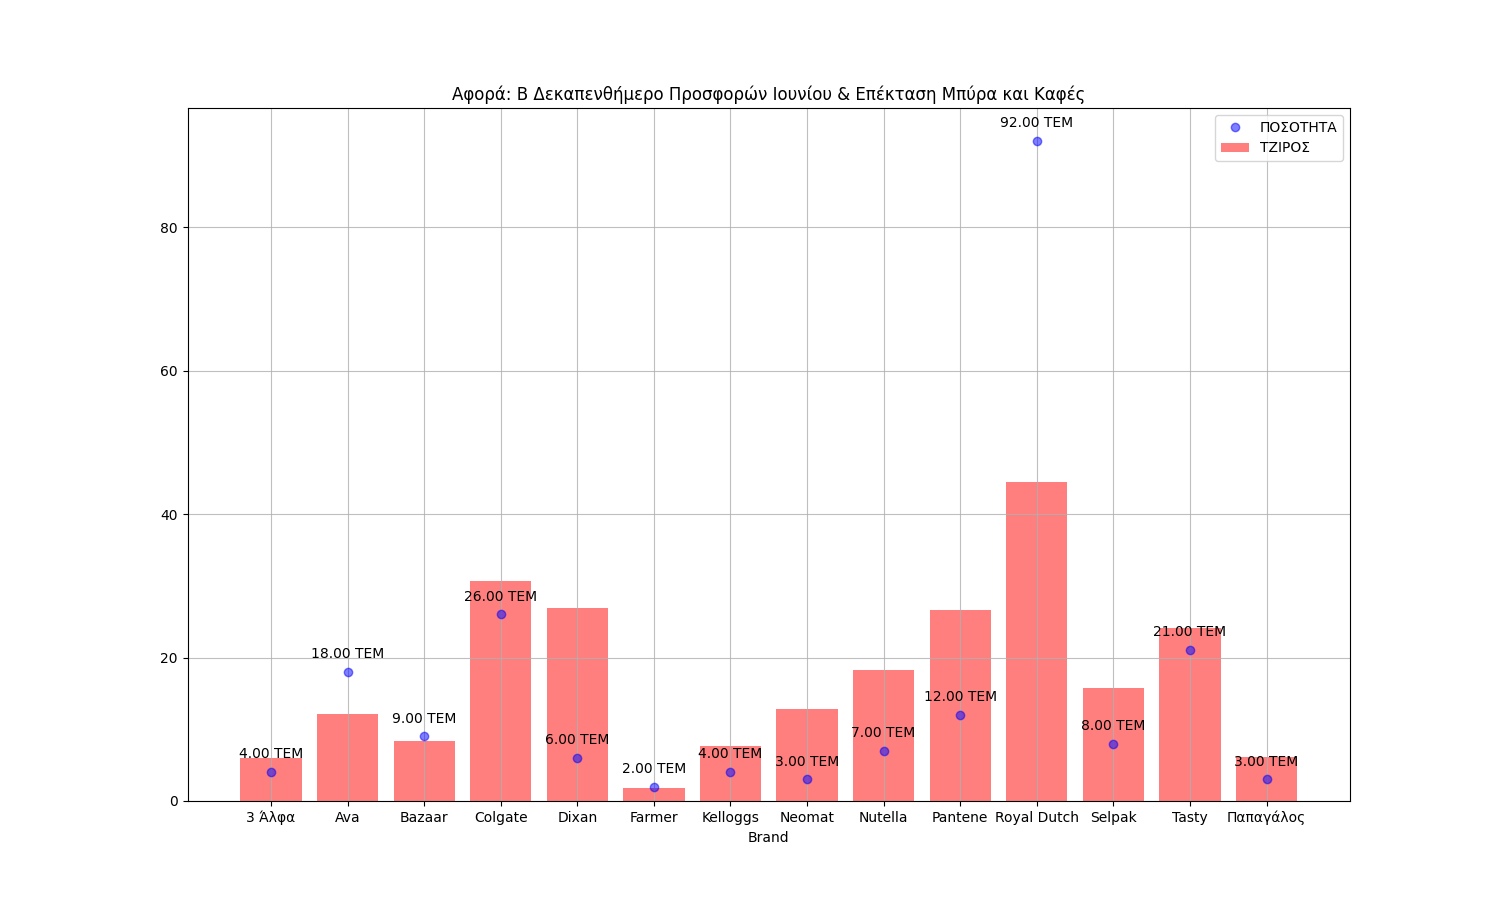
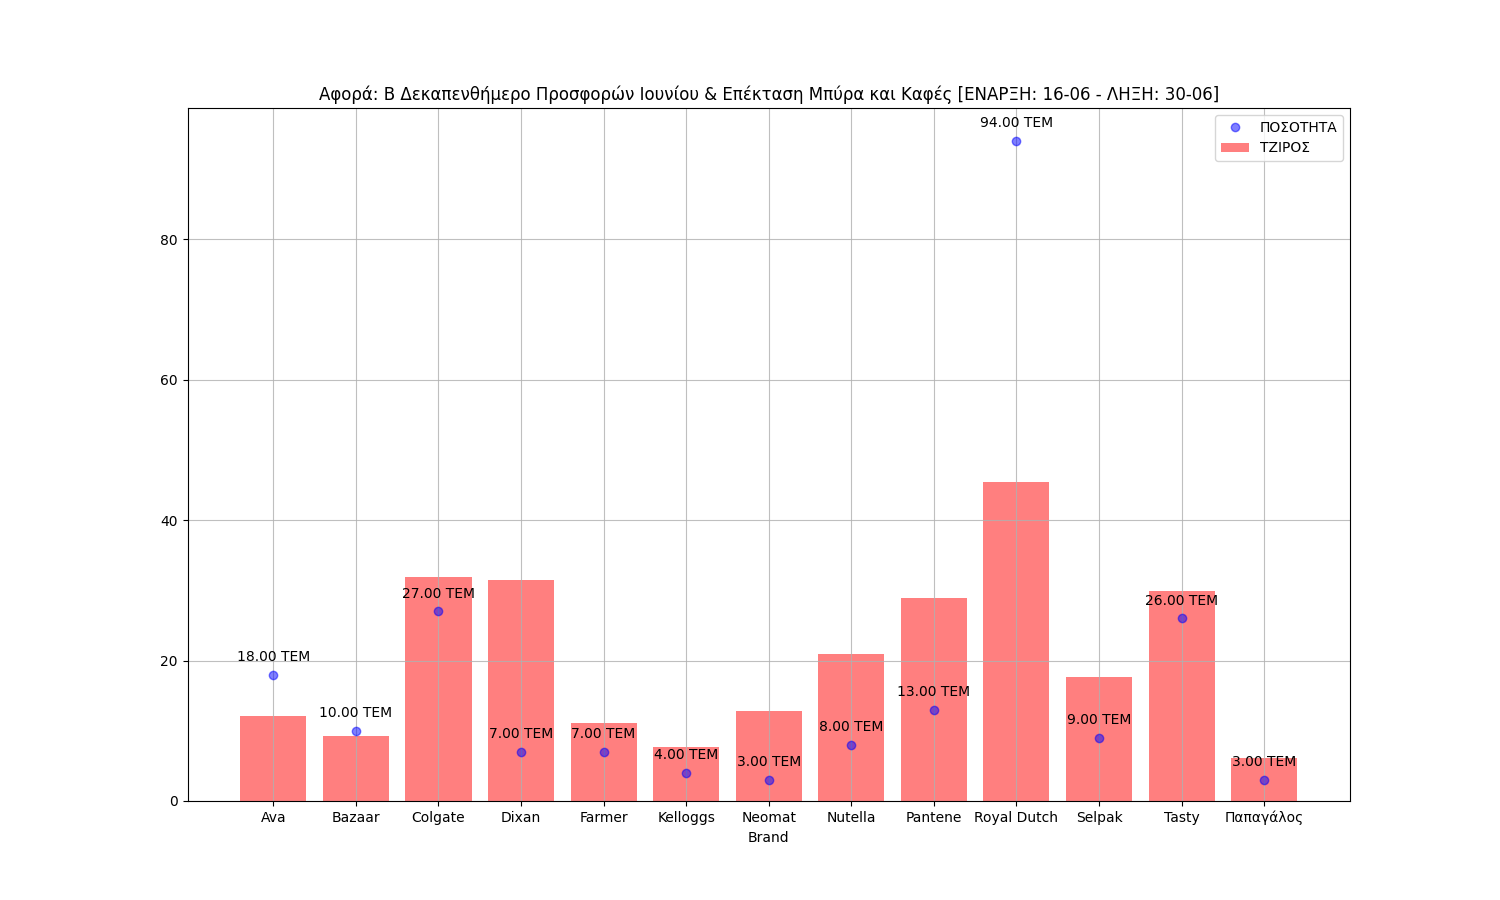
@Ioannis E. Kommas (PyCharm Commit and Push Code Lines)

diff --git a/ΝΕΑ_ΠΑΡΑΓΓΕΛΙΑ/app.py b/ΝΕΑ_ΠΑΡΑΓΓΕΛΙΑ/app.py
@@ -12,7 +12,7 @@ from Private import slack_app, send_mail, sql_connect
 
 # ----------------STATEMENTS HERE----------------------------
 # 797 ok
-input_param = '800'
+input_param = '781'
 output_file = "Order{}.xlsx".format(input_param)
 
 # ----------------MAIL LIST----------------------------
@@ -53,6 +53,26 @@ SELECT  distinct OrderType as 'Type', IMP_MobileDocumentHeaders.Code as 'Code', 
         --and OrderType = 'ΔΕΑ'
 """.format(input_param)
 
+extract_mail = """
+SELECT  
+        distinct FK_ESGOPerson_PersonCode1.EMailAddress AS EMailAddress,
+        FK_ESGOPerson_ESGOSites.Telephone1 AS Telephone1
+        FROM IMP_MobileDocumentLines
+        
+        left join IMP_MobileDocumentHeaders
+        on IMP_MobileDocumentHeaders.GID = IMP_MobileDocumentLines.fDocGID
+        left join ESFITradeAccount
+        on ESFITradeAccount.gid = IMP_MobileDocumentHeaders.Supplier
+        LEFT JOIN ESGOPerson AS FK_ESGOPerson_PersonCode1
+       ON ESFITradeAccount.fPersonCodeGID = FK_ESGOPerson_PersonCode1.GID 
+       INNER JOIN ESGOSites AS FK_ESGOPerson_ESGOSites
+       ON FK_ESGOPerson_PersonCode1.fMainAddressGID = FK_ESGOPerson_ESGOSites.GID
+        where DATEPART(yyyy,RealImportTime) = DATEPART(yyyy,getdate())
+        --and DATEPART(mm,RealImportTime) = DATEPART(mm,getdate())
+        and IMP_MobileDocumentHeaders.Code = {}
+        and OrderType = 'ΠΠΡ'
+        --and OrderType = 'ΔΕΑ'
+""".format(input_param)
 
 def katastima():
     if answer_02.ID[0] in ['00', '01']:
@@ -69,6 +89,15 @@ def katastima():
 answer_01 = pd.read_sql_query(sql_query, sql_connect.sql_cnx())
 answer_02 = pd.read_sql_query(data_querry, sql_connect.sql_cnx())
 supplier = answer_02.Name[0]
+
+# -------------ΒΡΕΣ ΤΟ MAIL ΤΟΥ ΠΡΟΜΗΘΕΥΤΗ ----------------------------
+person_mail = pd.read_sql_query(extract_mail, sql_connect.sql_cnx())
+name = f'Νέα Παραγγελία: {katastima()}'
+phone_number = person_mail.Telephone1[0]
+for i in person_mail.EMailAddress:
+    mail_lst.append(i)
+    mail_names.append(name)
+print(mail_lst)
 
 # ----------------FILE PATH----------------------------
 file_path = '/Users/kommas/OneDrive/Business_Folder/Slack/Orders/{k}/{s}/{f}'.format(s=supplier, f=output_file,
@@ -87,6 +116,8 @@ slack_app.send_text(f"""
 `ΠΡΟΜΗΘΕΥΤΗΣ: {supplier}`
 `ΥΠΟΚΑΤΑΣΤΗΜΑ: {katastima()}`
 `PDA ID: {answer_02.ID[0]}`
+`E-MAIL: {person_mail.EMailAddress[0]}`
+`Τηλ.: {phone_number}`
 """, slack_app.channels[3])
 
 slack_app.send_files(output_file,file_path,'xlsx', slack_app.channels[3])

diff --git a/A_DAILY_ΠΟΡΕΙΑ_ΤΙΜΟΚΑΤΑΛΟΓΟΥ_ΠΩΛΗΣΕΩΝ/app.py b/A_DAILY_ΠΟΡΕΙΑ_ΤΙΜΟΚΑΤΑΛΟΓΟΥ_ΠΩΛΗΣΕΩΝ/app.py
@@ -9,11 +9,7 @@ import matplotlib.pyplot as plt
 pd.set_option('display.max_columns', 500)
 pd.set_option('display.width', 1000)
 
-# -------------------- SLACK BOT DELETE--------------------
-x = (slack_app.history(slack_app.channels_id[0]))
-for i in range(3):
-    timer = (x['messages'][i]['ts'])
-    slack_app.delete(slack_app.channels_id[0], timer)
+
 
 # -------------------- STATEMENTS HERE --------------------
 choose = timokatalogos.lista_2020[-1]
@@ -45,7 +41,7 @@ excel_export.export(path_to_file, final_result)
 
 # -------------------- PLOT --------------------
 plt.figure(figsize=(15, 9))
-plt.subplot(xlabel='Brand', title=choose.comments)
+plt.subplot(xlabel='Brand', title=f'{choose.comments} [ΕΝΑΡΞΗ: {from_date.strftime("%d-%m")} - ΛΗΞΗ: {to_date.strftime("%d-%m")}]')
 plt.bar(brand_sales.BRAND, brand_sales.Turnover, alpha=0.5, color='red', label='ΤΖΙΡΟΣ')
 plt.plot(brand_sales.BRAND, brand_sales.SalesQuantity, alpha=0.5, color='blue', label='ΠΟΣΟΤΗΤΑ', marker='o',
          linestyle="None")
@@ -63,7 +59,13 @@ plt.legend()
 plt.savefig('views.png')
 plt.show()
 
-# -------------------- SLACK BOT ADD--------------------
+# -------------------- SLACK BOT DELETE (3 OLD POSTS) --------------------
+x = (slack_app.history(slack_app.channels_id[0]))
+for i in range(3):
+    timer = (x['messages'][i]['ts'])
+    slack_app.delete(slack_app.channels_id[0], timer)
+
+# -------------------- SLACK BOT ADD TEXT --------------------
 report = f"""
 >ΠΟΡΕΙΑ ΠΩΛΗΣΕΩΝ ΓΙΑ ΤΙΣ ΠΡΟΣΦΟΡΕΣ:
 ` ΣΥΜΜΕΤΕΧΟΥΝ: \t {len(final_result)} ΠΡΟΪΟΝΤΑ `
@@ -76,5 +78,7 @@ report = f"""
 """
 
 slack_app.send_text(report, slack_app.channels[0])
+
+# -------------------- SLACK BOT ADD FILES --------------------
 slack_app.send_files(f'{id}.xlsx', path_to_file, 'xlsx', slack_app.channels[0])
 slack_app.send_files('views.png', 'views.png', 'png', slack_app.channels[0])
